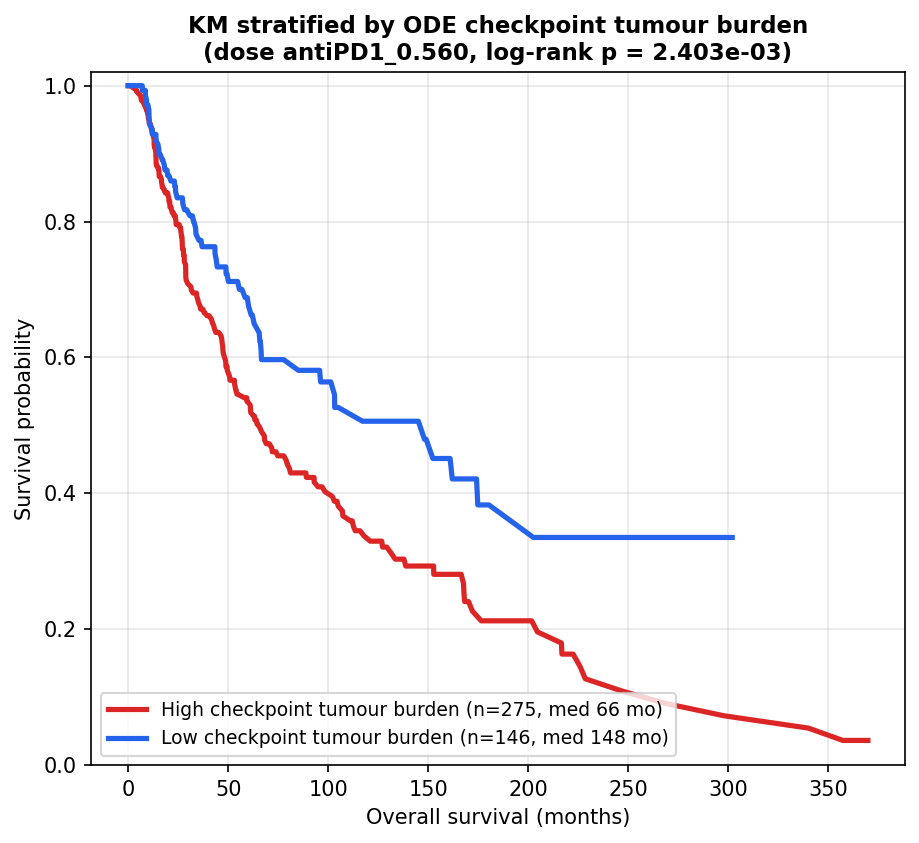
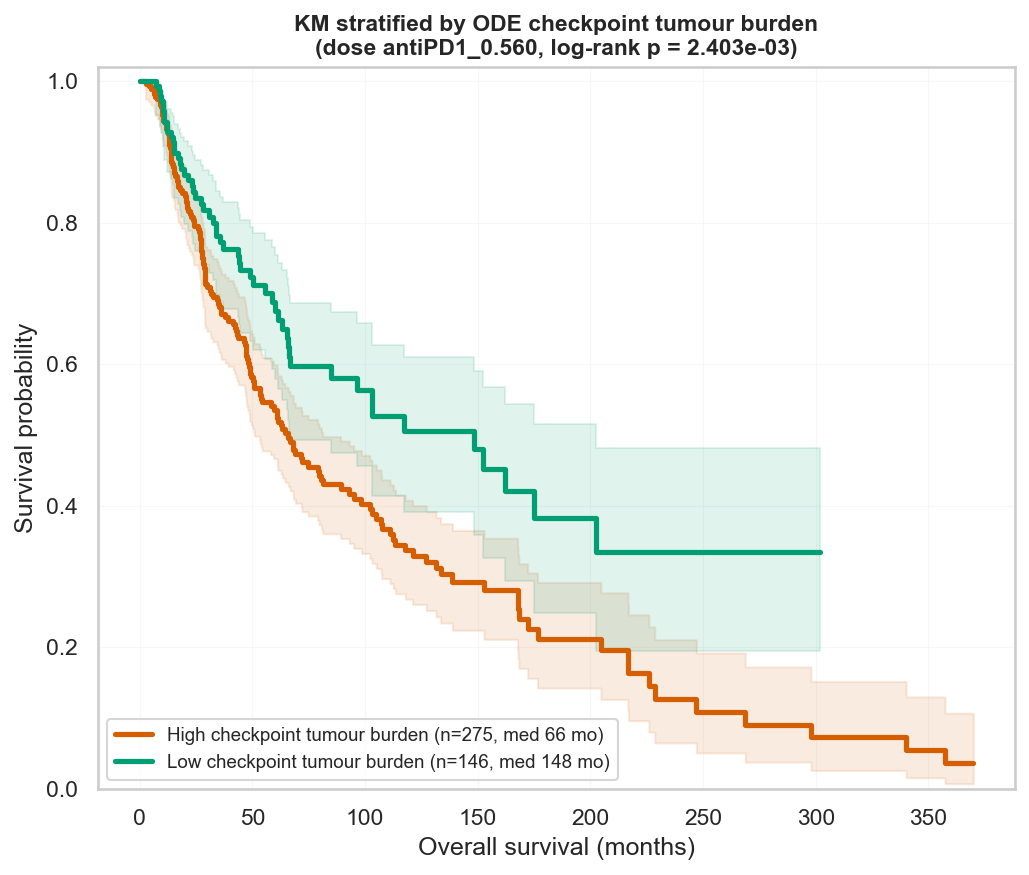
Added recolored figures used in presentation. Cleaned up the report to include the equations descriptions as stated from presentation guidance and feedback.

Changed region(s): [[0.0, 0.0, 1.0, 0.987]]

diff --git a/q3-ode-model/scripts/phase3_ode_simulation.py b/q3-ode-model/scripts/phase3_ode_simulation.py
@@ -98,14 +98,13 @@ BRAFi_dose     = DOSE_UNITS                          # kept for column naming
 DOSE_COL_NAMES = ["BRAFi_" + f"{v:.3f}" for v in DOSE_UNITS]
 
 # Anti-PD-1 dose sweep (Module D). Kept as its own grid/output — a full
-# BRAFi x anti-PD-1 combination grid (and the antagonism it would let us
-# study) is deliberately deferred; see docs/Q3_Refactor_Proposal.md.
+# BRAFi x anti-PD-1 combination grid is deliberately deferred
 ANTIPD1_DOSE_UNITS = np.linspace(0.01, 1.0, num=10)  # normalised dose knob
 ANTIPD1_MAX_NM     = 500.0                           # u = 1.0 -> 500 nM anti-PD-1
 ANTIPD1_COL_NAMES  = ["antiPD1_" + f"{v:.3f}" for v in ANTIPD1_DOSE_UNITS]
 
 # ══════════════════════════════════════════════════════════════════════════════
-#  UNIVERSAL PARAMETERS (identical for every patient) — all from the literature
+#  UNIVERSAL PARAMETERS (identical for every patient) — all based on the literature
 # ══════════════════════════════════════════════════════════════════════════════
 
 # ── Module B: MAPK cascade — published kinetic constants (nM, min) ────────────
@@ -137,7 +136,7 @@ LF = dict(
 # Maps the dimensionless infiltration score (cohort mean ~1) onto the model's
 # effector-density units so that eta8*T8 is commensurate with lambdaC. This is
 # the single calibration constant of Module C (an input scaling, not a kinetic
-# rate); all kinetic constants above are published values.
+# rate); all kinetic constants above are based on published values.
 T8_SCALE = 0.008
 
 # ── Module A: reduced RAF-dimer + drug module ─────────────────────────────────
